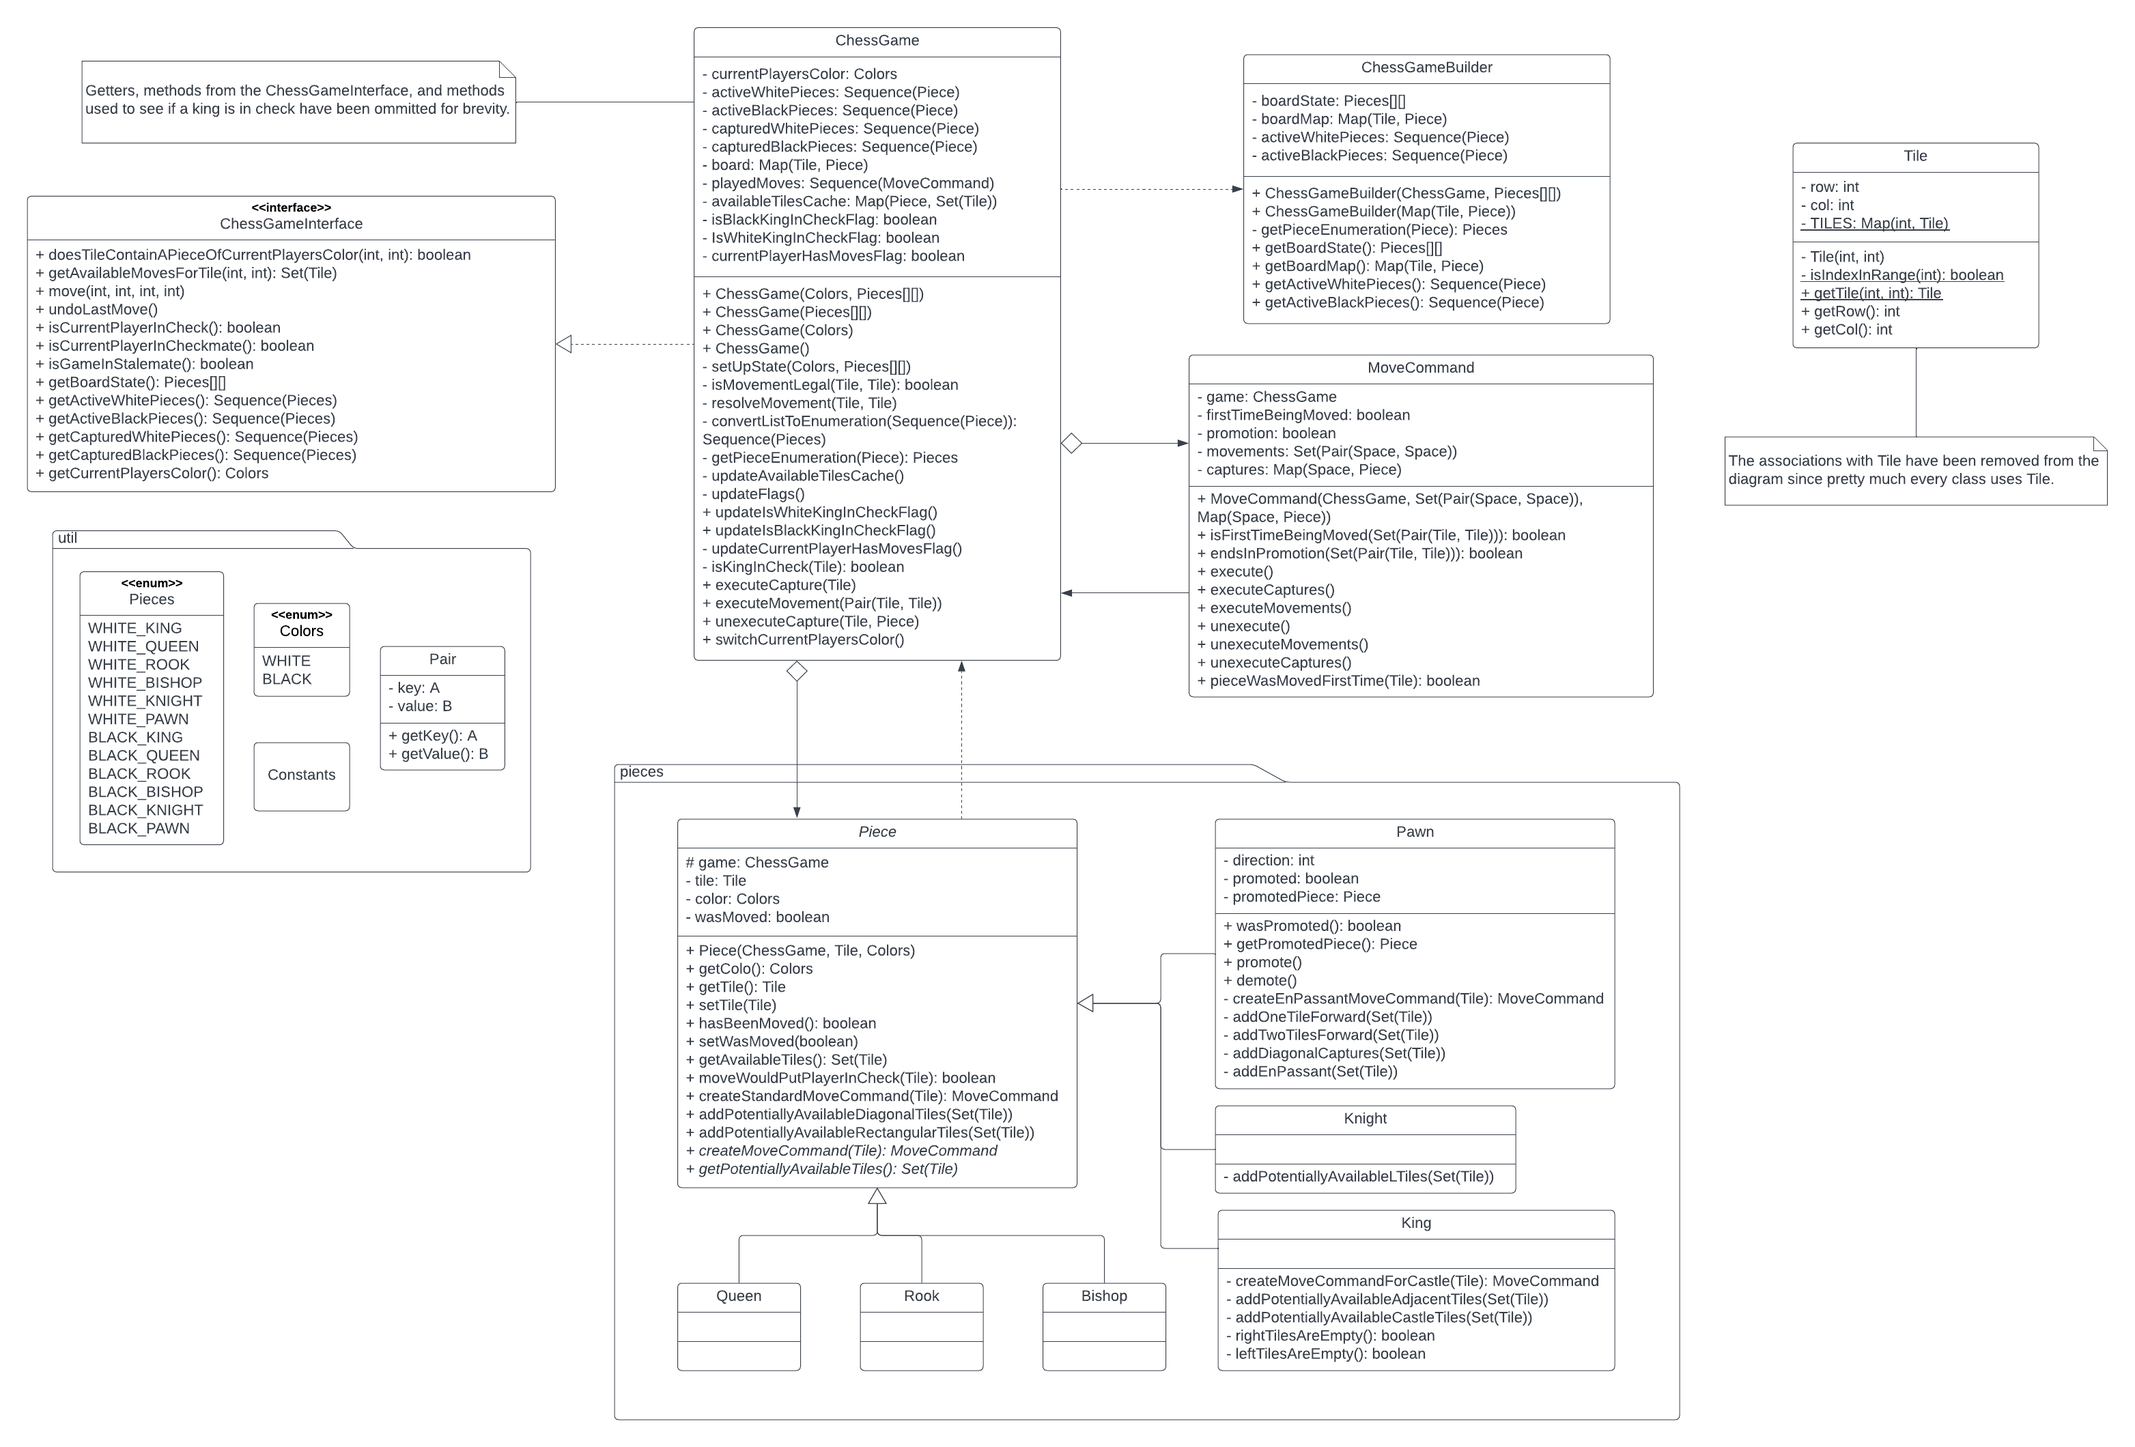
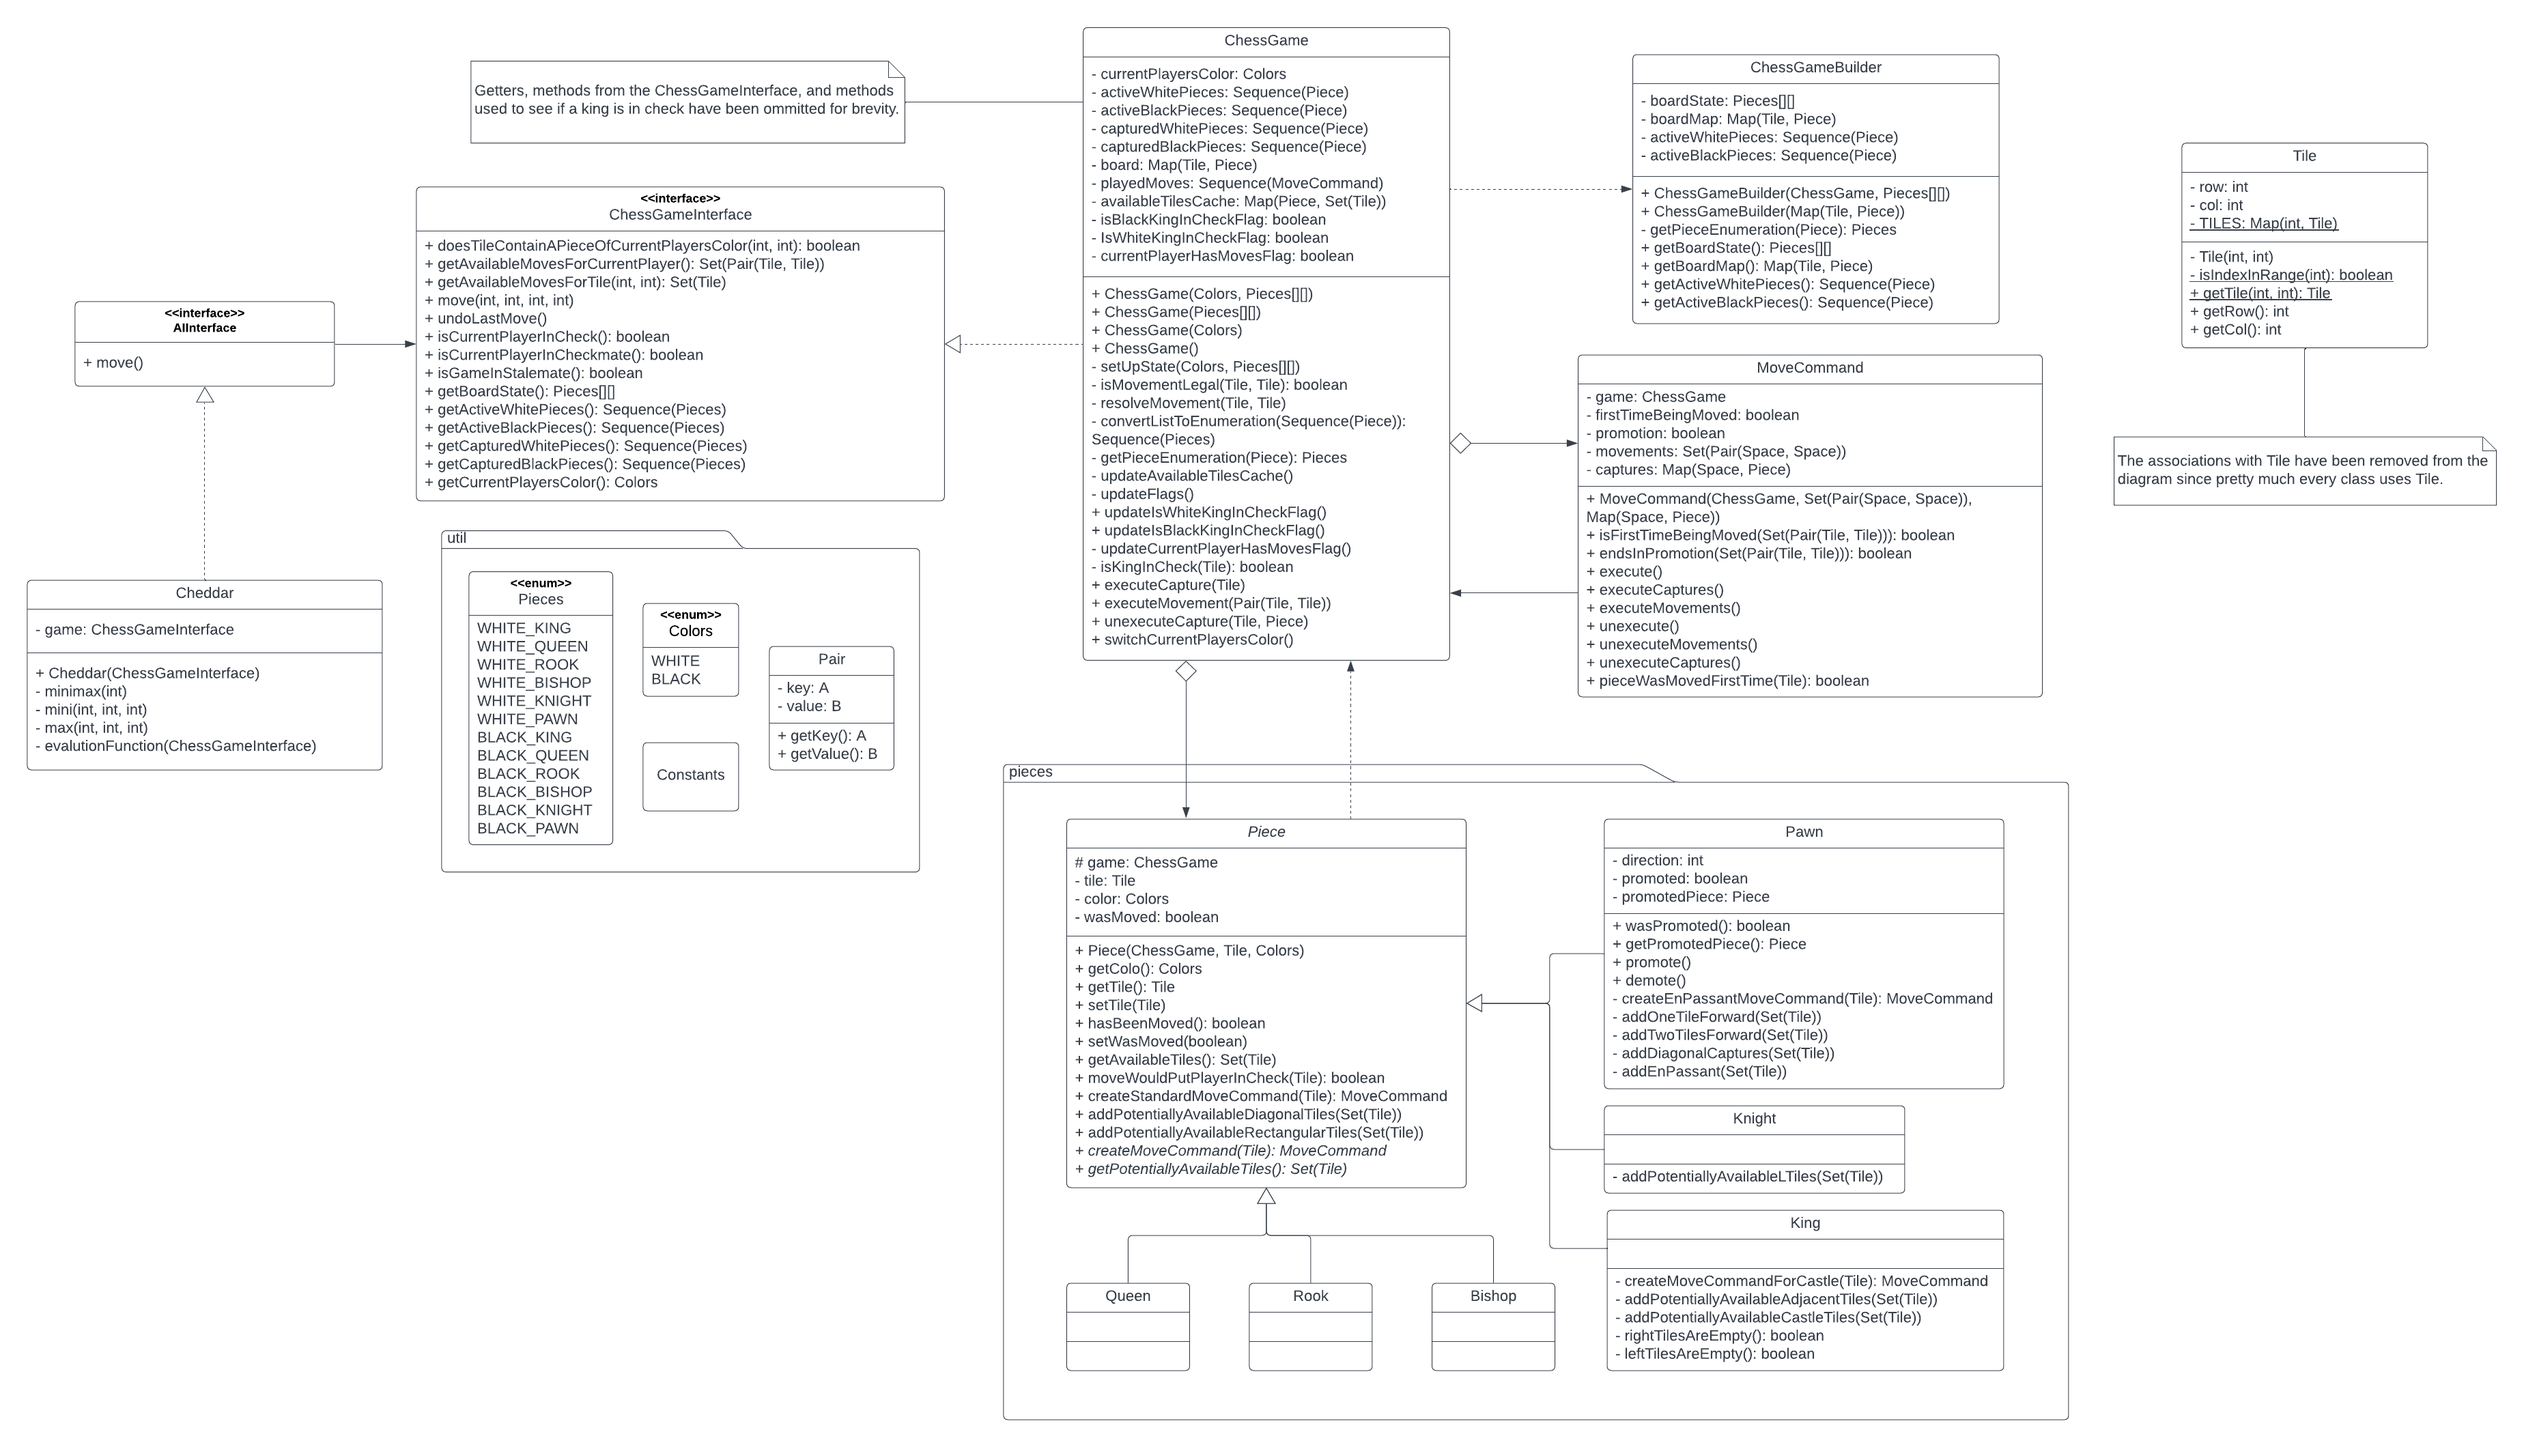
Updated the design documentation to reflect changes made to the AI component.

diff --git a/documentation/design.md b/documentation/design.md
@@ -45,6 +45,13 @@ To incorporate this functionality, a MoveCommand class was created.
 
 More details on the Builder and Command design patterns can be found in *Design Patterns*.
 
+The AIInterface defines how the AIBots (like Cheddar) can interact with the ChessGameInterface.
+The only thing an AIBot needs to do is make a move based on the state of a ChessGame. 
+Thus, that is the only method defined in the interface.
+
+The Cheddar AI bot will use an iterative deepening minimax algorithm with alpha-beta pruning. 
+It'll stop executing after the 5-second limit.
+
 ## Behavioral
 
 For the behavioral diagrams, there's no need to create a use case diagram since there's just a single actor, the user, and there's only two ways for the user to interact with the application, either by hovering over a space or by selecting it.
